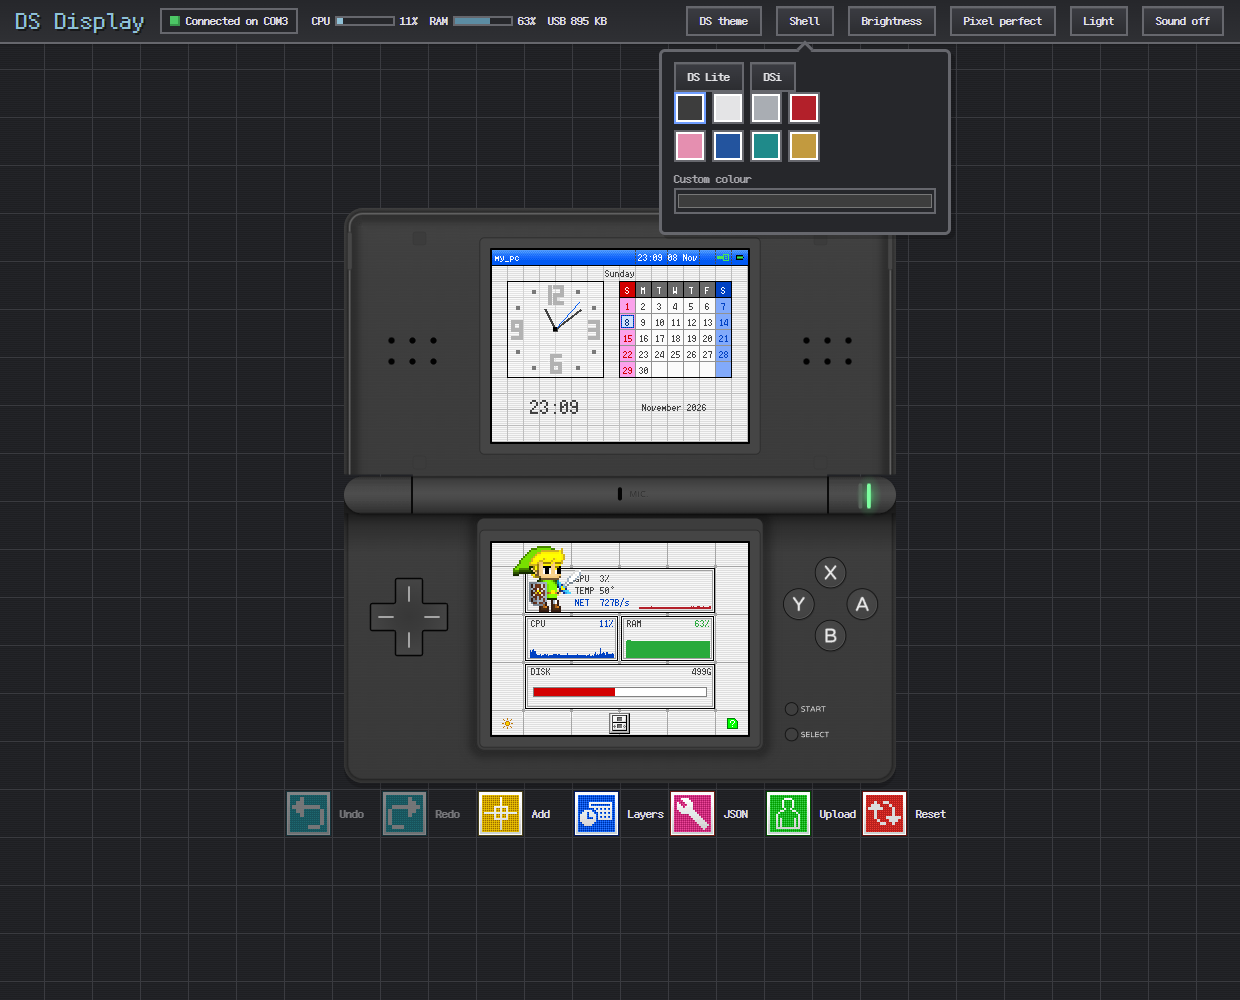
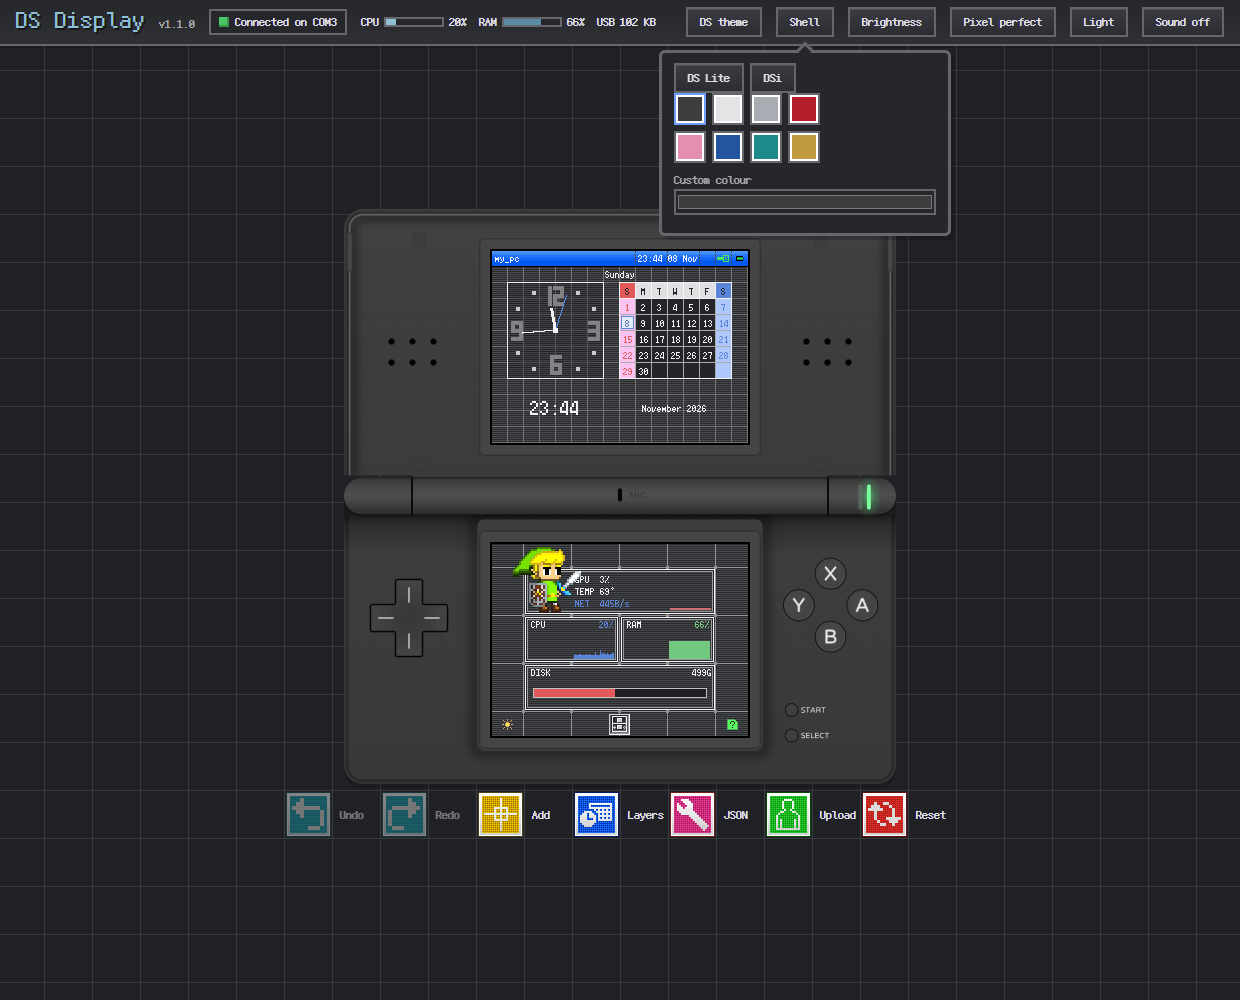
Release 1.1.0: update the README, PLAN and screenshots for themes as whole dashboards

diff --git a/docs/PLAN.md b/docs/PLAN.md
@@ -103,11 +103,12 @@ Working on hardware. A GIF uploads once and the ARM9 plays it, so frames use no 
 traffic stayed at about 0.4 KB/s with an animation running.
 
 - [x] `ANIM_BEGIN`, `ANIM_FRAME`, `ANIM_PLAY`, `ANIM_STOP`, `ANIM_RESET` packets, 8 slots.
-- [x] Host encoder: first frame plus changed-area frames, composited onto the theme
-      background so the DS needs no transparency handling. Per-frame delays are kept.
+- [x] Host encoder: first frame plus changed-area frames, with transparent pixels marked by
+      bit 15 clear. Per-frame delays are kept.
+- [x] Transparency on the DS: the ARM9 keeps a copy of the live picture and which animation
+      covers each pixel, so live values show through a GIF's transparent parts.
 - [x] ARM9 player, timed from VBlank, running alongside stat updates.
 - [x] 512 KB store. Oversized assets are rejected on the host.
-- [x] `ANIMATIONS:` theme section. Files in a theme's `local/` folder are not committed.
 - [ ] Confirm animations come back after a push or reconnect.
 - [ ] Bigger store if needed: 1.75 MB is possible by sharing the push staging area.
 - [ ] Tearing on larger animations. The bottom screen can't double-buffer: VRAM C is
@@ -142,15 +143,19 @@ replace old ones, so a slow link skips ahead instead of building a backlog.
 - [ ] Settings saved between runs.
 - [x] GPU load, GPU memory and temperature: NVML on NVIDIA, Windows counters otherwise.
       NVML hasn't been run on real hardware yet.
-- [ ] Multiple saved layouts.
+- [x] Multiple saved layouts: each theme is a folder with its own layout, colours, art and
+      uploads. See [THEMES.md](THEMES.md).
+- [x] Templates and element types, so others can add elements. See [THEMES.md](THEMES.md).
+- [x] Small preview of the whole DS, and a screens-only editor at 2x or more, with snapping.
+- [x] Versioned releases: `VERSION`, `CHANGELOG.md` and `tools/release`.
 - [ ] DS status and logs in the web UI.
 
 ## Phase 7: DS home screen dashboard
 
 Working, as the default layout. It follows the real menu's structure: clock and calendar on
 top, then a game card, two panels, a slim slot and the footer strip. Buttons are the real
-`grf/box.bmp` art, stretched by its edges. That art and personal GIFs are git-ignored, so
-copy them over on a new machine.
+`grf/box.bmp` art, stretched by its edges. The art is in each theme's folder, in
+`app/assets/themes/`.
 
 - [ ] Use more of the menu art: icons, shoulder buttons, battery and volume indicators.
 
@@ -167,8 +172,8 @@ gap for the hinge.
       `--ds-color`, and switches `--ds-label` to dark on pale shells.
 - [x] Hinge gap in the preview only. Layouts stay 256x384. `viewTop`, `viewBottom` and
       `fromView` in `app.js` convert rows, and a drag that stops in the hinge lands on the seam.
-- [x] Preview snaps to whole device pixels per DS pixel, sized so both screens fit. The shell
-      can run past the window, so the page scrolls and the tools sit in a column beside it.
+- [x] Preview snaps to whole device pixels per DS pixel, sized so the whole shell fits, with
+      the tools in a row below it. **Fill** sizes it to the window instead.
 - [ ] Pixels aren't exact at fractional Windows scaling (125%, some sizes at 150%).
 - [ ] Web UI sometimes stalls or won't load. Windows TCP timers looked stopped: `TIME_WAIT`
       never expired, and a new connection that landed on an old one hung. The server now

diff --git a/README.md b/README.md
@@ -19,8 +19,10 @@ in [docs/PLAN.md](docs/PLAN.md).
 
   <img src="docs/images/editor-dsi.png" alt="The editor with a DSi" width="49%"> <img src="docs/images/shell-picker.png" alt="Choosing a shell" width="49%">
 
-- **Real DS look:** themes use the classic DS menu's art. GIFs play on the DS itself, with live
-  values showing through their transparent parts.
+- **Themes:** each theme is a whole dashboard in one folder: its layout, colours, the classic DS
+  menu's art, and your images and GIFs. Switch between them, save copies, or share a folder. GIFs
+  play on the DS itself, with live values showing through their transparent parts. See
+  [docs/THEMES.md](docs/THEMES.md).
 
   <img src="docs/images/ds-screens.png" alt="The DS's own screens" width="256">
 

diff --git a/CHANGELOG.md b/CHANGELOG.md
@@ -3,7 +3,7 @@
 Each release's version is in [VERSION](VERSION). `tools/release --publish` uses the section for that
 version as the release notes.
 
-## Unreleased
+## 1.1.0
 
 - **Themes are whole dashboards:** each theme is a folder with its own layout, colours, art,
   sounds and uploads, so switching theme switches everything. Save as copies the whole theme.
